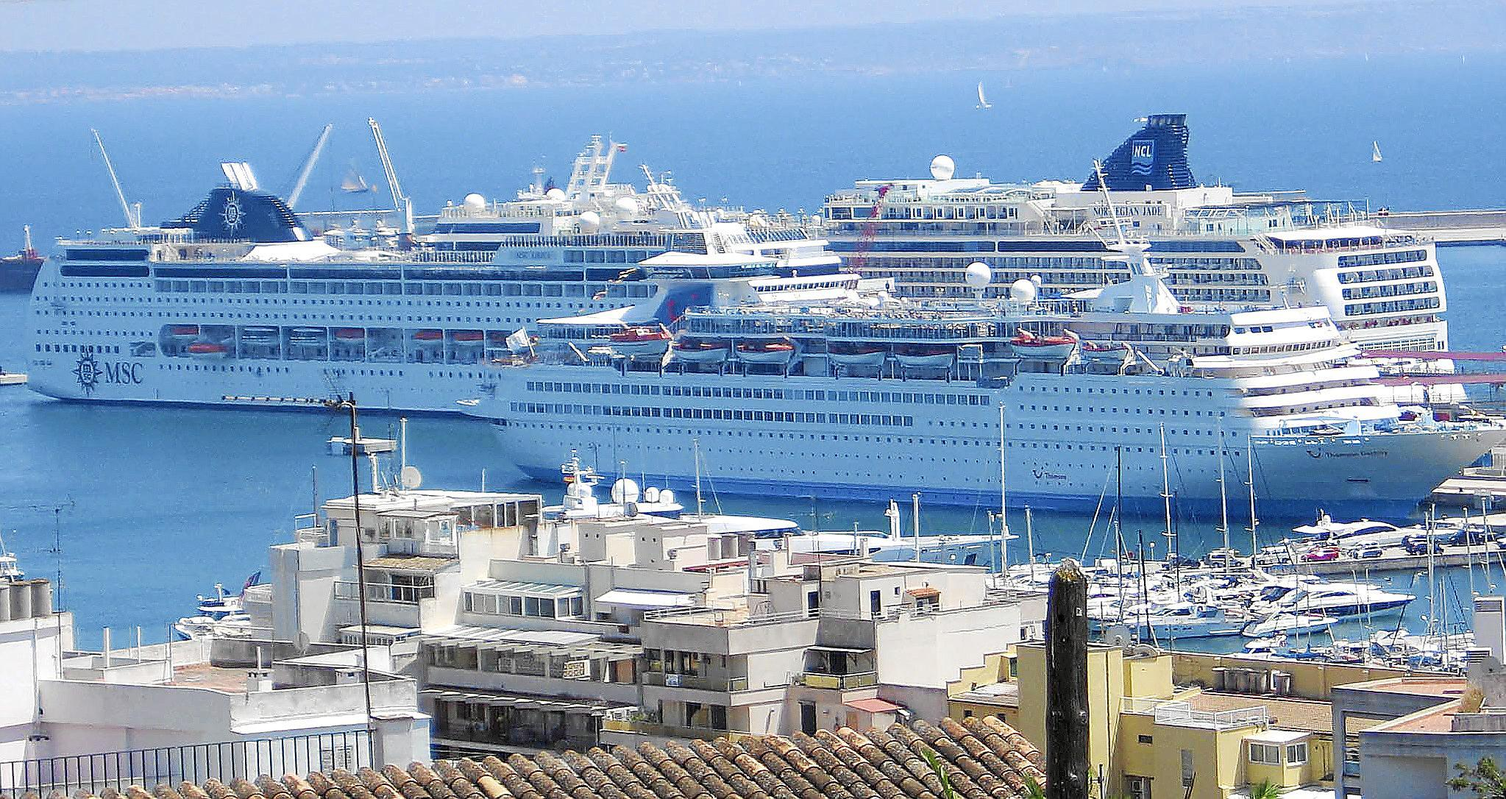
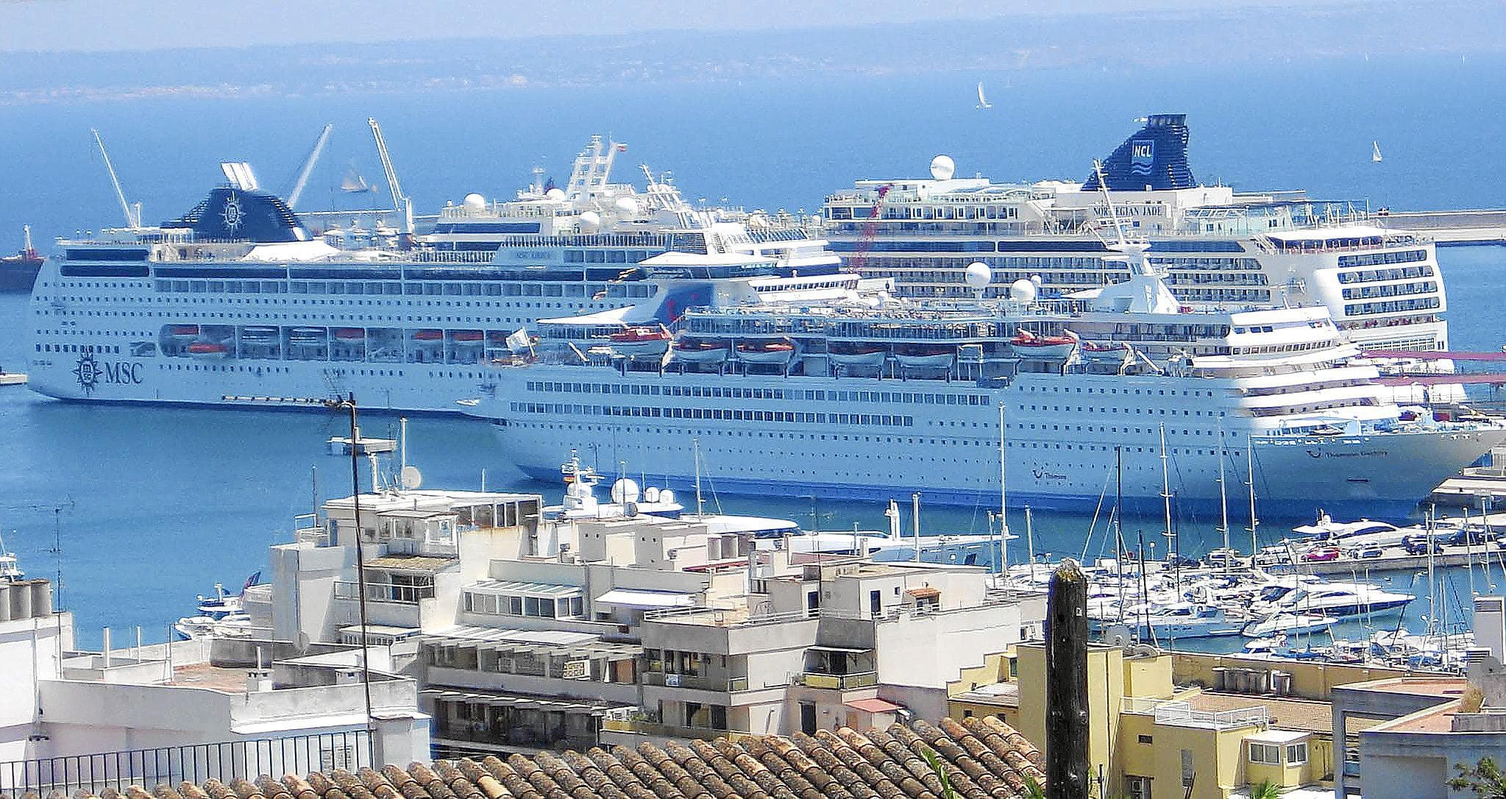
optimizar imatges

diff --git a/index2.html b/index2.html
@@ -54,87 +54,34 @@
     </div>
 
     <div class="publicidadEscritori  hidden-sm-down">
-        PUBLICIDAD
+
     </div>
     <div class="publicidadMovil fixed-bottom hidden-md-up hidden-lg-up">
-        PUBLICIDAD
+
     </div>
 
 
     <div class="margeDreta">
 
-        <div class="container-fluit ">
-            <div class="card">
-                <img class="img-fluid card-img-top" src="img/noticia1.jpg" alt="Card image cap">
-                <div class="card-block">
-                    <h2 class="card-title">Colau crearà l'empresa pública d'energia més gran de l'Estat.</h2>
-                    <p class="card-text">
-                        <p> El ple de l’Ajuntament de Barcelona aprovarà avui la creació d’una empresa pública per comercialitzar, en una primera fase, l’energia que consumeixin els edificis municipals, l’enllumenat públic i 20.000 cases. La nova empresa,
-                            que es dirà Barcelona Energia, començarà a treballar per al mateix Ajuntament a finals del 2018 i, després de 3 mesos de prova, s’obrirà a la ciutadania.</p>
-                        <div class="row justify-content-around">
-
-                            <button class="btn btn-success col col-lg-2 col-md-4 col-xs-2" type="button" data-toggle="collapse" data-target="#collapseExample" aria-expanded="false" aria-controls="collapseExample"> Llegir més
-                        </button>
-                            <div class="fb-share-button btn btn-primary col col-lg-2 col-md-4 col-xs-2" data-href="http://sergiroberti.com/" data-layout="button" data-size="large" data-mobile-iframe="true"><a class="fb-xfbml-parse-ignore " id="lletraBlanca" target="_blank" href="https://www.facebook.com/sharer/sharer.php?u=http%3A%2F%2Fsergiroberti.com%2F&amp;src=sdkpreparse">Comparteix</a></div>
-                        </div>
-                        <div class="collapse" id="collapseExample">
-                            <div class="card-text">
-                                <p></p>
-                                <p>L’energia que comercialitzi serà renovable i s’obtindrà gràcies a la incineració de residus que es fa actualment a la planta del Besòs, més la que puguin generar diferents plaques fotovoltaiques, com la del Fòrum. També
-                                    es vendrà al mercat l’energia que puguin produir els barcelonins que es facin clients de la nova empresa i que instal·lin plaques solars a casa seva. Barcelona Energia es compromet a comprar tot l’excedent d’energia
-                                    dels ciutadans, que, a canvi, tindran descomptes en el rebut de la llum.</p>
-                                <p> Altres ciutats com Cadis també han iniciat projectes similars de municipalització de l’energia, però aquesta serà l’empresa d’energia 100% pública més gran de l’Estat i tota l’electricitat que comercialitzarà serà renovable
-                                    i de proximitat.</p>
-                                <p> Barcelona Energia serà la comercialitzadora de Tersa, l’empresa que gestiona els residus de l’àrea metropolitana. Aquest sistema una mica enrevessat -que fa anys que s’estudia- té l’objectiu de garantir el control públic
-                                    d’un recurs bàsic respectant el medi ambient i, tot això, complint la normativa vigent. La llei de competència determina que les empreses públiques no poden destinar als privats més d’un 20% del que generin. El 20%
-                                    de tota l’energia que pot comercialitzar l’Ajuntament de Barcelona equival, segons el consum mitjà, a 20.000 llars. Per contra, aquestes restriccions tenen un avantatge clau, i és que l’Ajuntament podrà contractar aquesta
-                                    empresa sense haver d’organitzar un concurs públic. És a dir, les grans comercialitzadores no hi podran competir. L’Ajuntament confia que aquesta operació no acabarà als tribunals, ja que la creació de l’empresa es
-                                    va exposar públicament i no va rebre al·legacions.
-                                </p>
-                                <p> La xifra inicial de llars que podran contractar la nova empresa és petita, ja que a a Barcelona hi ha 657.000 habitatges. El regidor de Presidència, Aigua i Energia, Eloi Badia, va explicar ahir que altres empreses municipals,
-                                    com TMB o BSM, que tenen un gran consum d’electricitat, se sumaran a Barcelona Energia. També s’està fent el tràmit perquè s’hi afegeixi l’Àrea Metropolitana de Barcelona.</p>
-
-                                <h4>Cada cop més criutadans.</h4>
-                                <p> Les incorporacions permetran fer créixer ràpidament el percentatge públic de la nova empresa, de manera que s’hi podran afegir altres consumidors privats sense superar el 20% que fixa la llei. Badia va explicar que Barcelona
-                                    Energia “serà una companyia municipal de confiança” i que els ciutadans “hi podran accedir com ho fan amb les altres companyies”. Per seleccionar quins habitants podran ser clients i quins no, utilitzaran l’ordre de
-                                    petició. En una primera fase, hi tindran dret els primers 20.000 que ho demanin.</p>
-                                <p>
-                                    La mesura també permetrà un estalvi de recursos. Barcelona es gasta cada any 34 milions d’euros en la compra d’energia. Amb la posada en marxa del nou sistema, els estudis municipals apunten que l’Ajuntament es podria estalviar 500.000 euros a l’any.
-                                    Els ciutadans que contractin el servei també estalviaran diners, segons Badia, ja que podran rebaixar la potència amb un marge més elevat que la resta d’operadores, un pas que permetrà rebaixar la factura. </p>
-                                <p>La nova empresa, segons el compromís del regidor, complirà la llei 24/2015 de pobresa energètica i, a més, aconsellarà els seus clients perquè no malgastin energia i, per tant, diners. Barcelona Energia també vol ser “un
-                                    instrument de promoció i estímul de la generació energètica local i renovable”, segons fonts municipals, així com “l’autogeneració i l’autoconsum”.</p>
-                                <h4>Acord municipal</h4>
-                                <p> La creació d’aquesta empresa s’arrossega des de fa anys. Va ser el govern de l’alcalde Xavier Trias qui va iniciar els tràmits i el d’Ada Colau qui l’ha acabat de perfilar. Avui el ple municipal aprovarà la creació de la
-                                    nova empresa. Si res no canvia, tots els partits tret del PP, que s’abstindrà, hi votaran a favor. Per al govern, l’aprovació significa “la transició cap a la sobirania energètica de la ciutat”.</p>
-                            </div>
-                        </div>
-                    </p>
+        <div class="card-block">
+            <h2 class="card-title">Solucions per a un turisme sostenible: arrenca el festival Posidònia Mallorca.</h2>
+            <p class="card-text">El festival Posidònia Mallorca es durà a terme els dies 19 i 20 de maig a Palma i el 27 de maig a Deià. "Ens consideram un festival científic i ambiental" i "creim que és important crear un espai de reflexió sobre el turisme sostenible i recollir
+                idees inspiradores i models que funcionen a altres llocs", explica l'organitzador, Alberto Fraile.</p>
+            <div class="row justify-content-around"><button class="btn btn-success col col-lg-2 col-md-4 col-xs-2" type="button" data-toggle="collapse" data-target="#noticia_6" aria-expanded="false" aria-controls="collapseExample"> Llegir més </button>
+                <div class="fb-share-button btn btn-primary col col-lg-2 col-md-4 col-xs-2"
+                    data-href="http://sergiroberti.com/" data-layout="button" data-size="large" data-mobile-iframe="true"><a class="fb-xfbml-parse-ignore " id="lletraBlanca" target="_blank" href="https://www.facebook.com/sharer/sharer.php?u=http%3A%2F%2Fsergiroberti.com%2F&amp;src=sdkpreparse">Comparteix</a></div>
+                <div class="collapse" id="noticia_6">
+                    <div class="card-text">
+                        <p></p>
+                        <p>Aquest esdeveniment cerca contribuir a frenar l'amenaça que pateix la posidònia oceànica. Les activitats del programa, totes gratuïtes, estan dirigides a infants i adults, i pretenen convertir-se en un lloc de trobada per a la
+                            recerca de solucions per a un turisme sostenible.</p>
+                        <p>En el marc del festival tindrà lloc el primer Fòrum de Turisme Sostenible, en el qual entitats de Mallorca presentaran idees i es farà una taula rodona sobre els reptes i estratègies per arribar a la sostenibilitat amb actors turístics
+                            i experts en economia, desenvolupament sostenible i innovació tecnològica en turisme.</p>
+                    </div>
                 </div>
+                <p></p>
             </div>
-            <p></p>
         </div>
-
-
-        <p></p>
-        <div class="container-fluid">
-            <p></p>
-            <div class="row">
-                <div id="lletraBlanca" class="col">
-                    <ul class="footer-links">
-                        <a href="https://github.com/seergi93/PaginaNoticiesBootstrap">
-                            <li>Sobre la pàgina.</li>
-                        </a>
-                        <li>Desenvolupat per Sergi Roberti.</li>
-                    </ul>
-                </div>
-                <div id="lletraBlanca" class="col">
-                    Prejecte bootstrap per a Llenguatge de Marques.
-                </div>
-            </div>
-            <p></p>
-        </div>
-        <br> </br>
-        <p></p>
     </div>
 </body>
 

diff --git a/index1.html b/index1.html
@@ -54,10 +54,10 @@
     </div>
 
     <div class="publicidadEscritori  hidden-sm-down">
-        PUBLICIDAD
+
     </div>
     <div class="publicidadMovil fixed-bottom hidden-md-up hidden-lg-up">
-        PUBLICIDAD
+
     </div>
 
 
